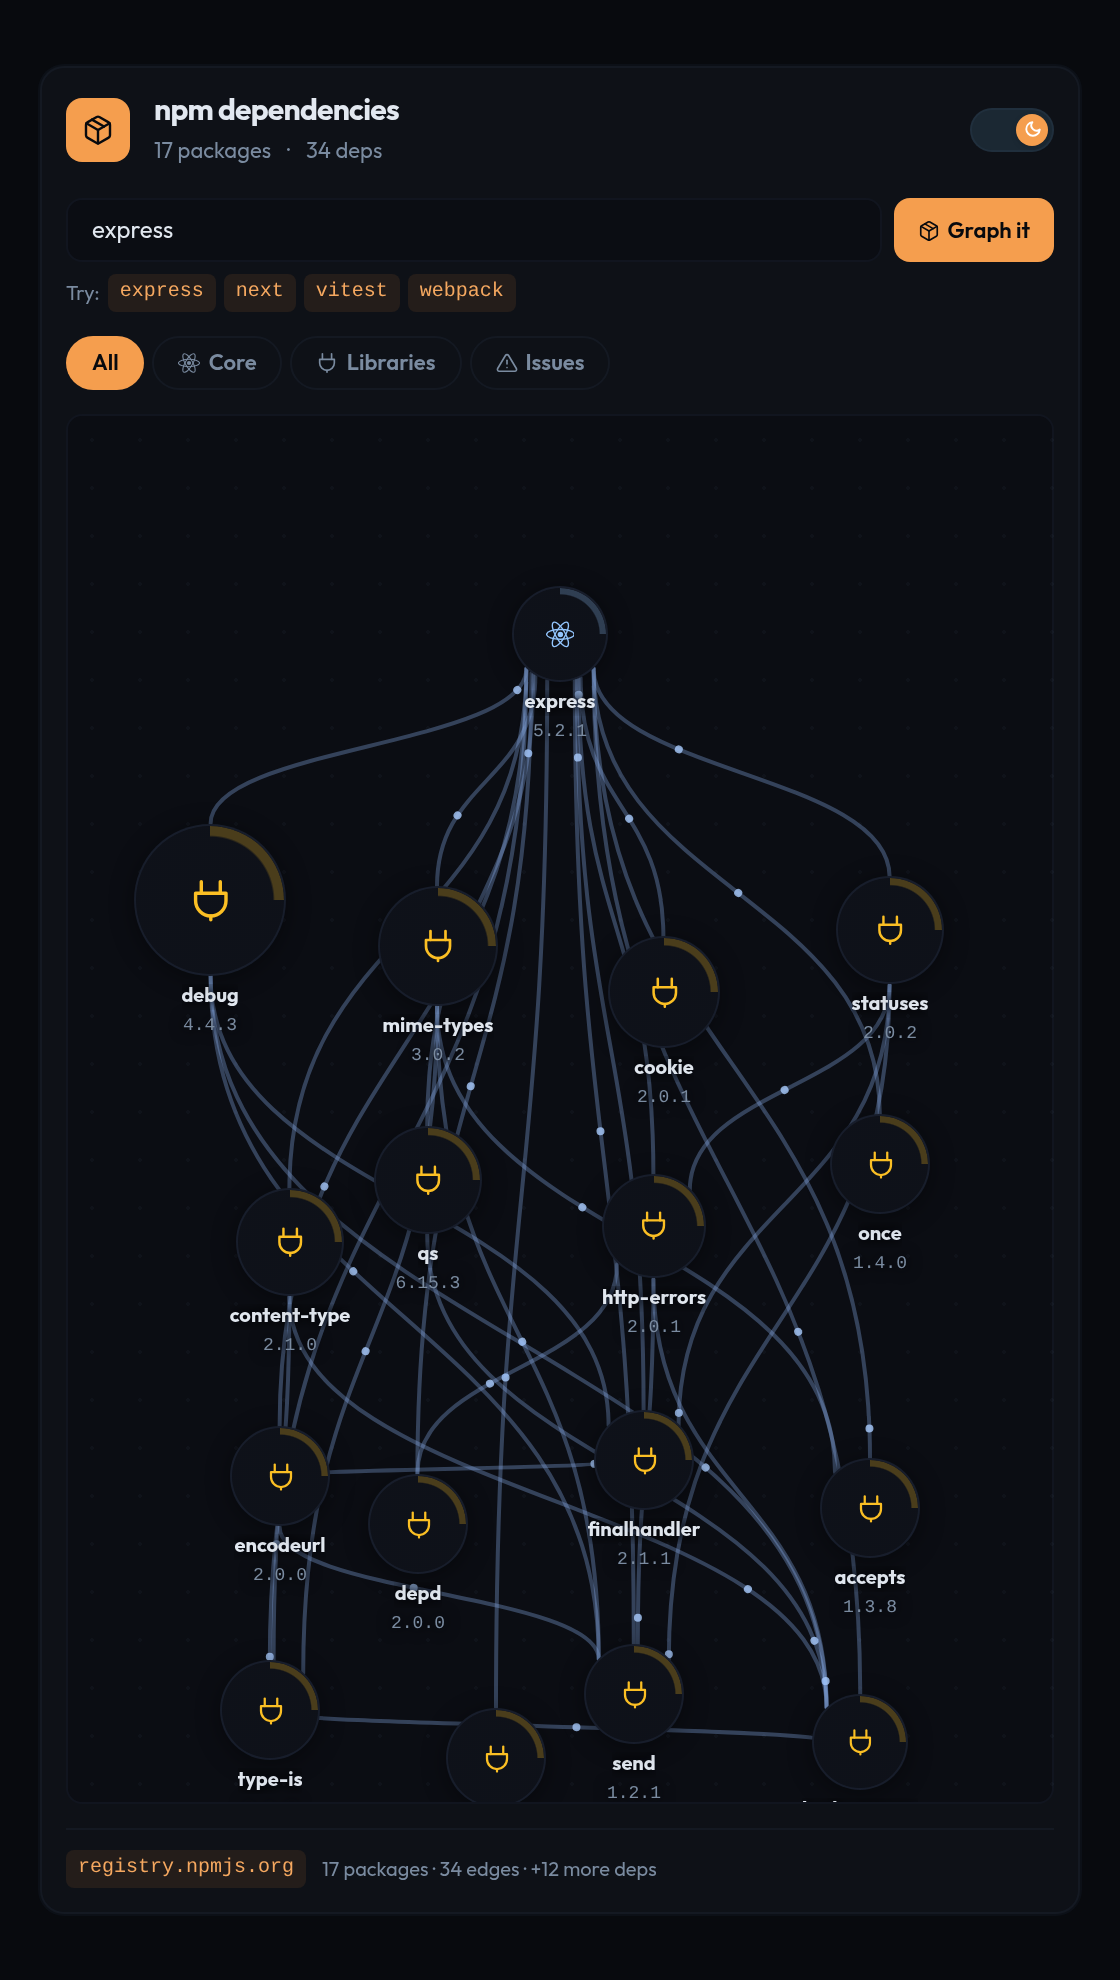
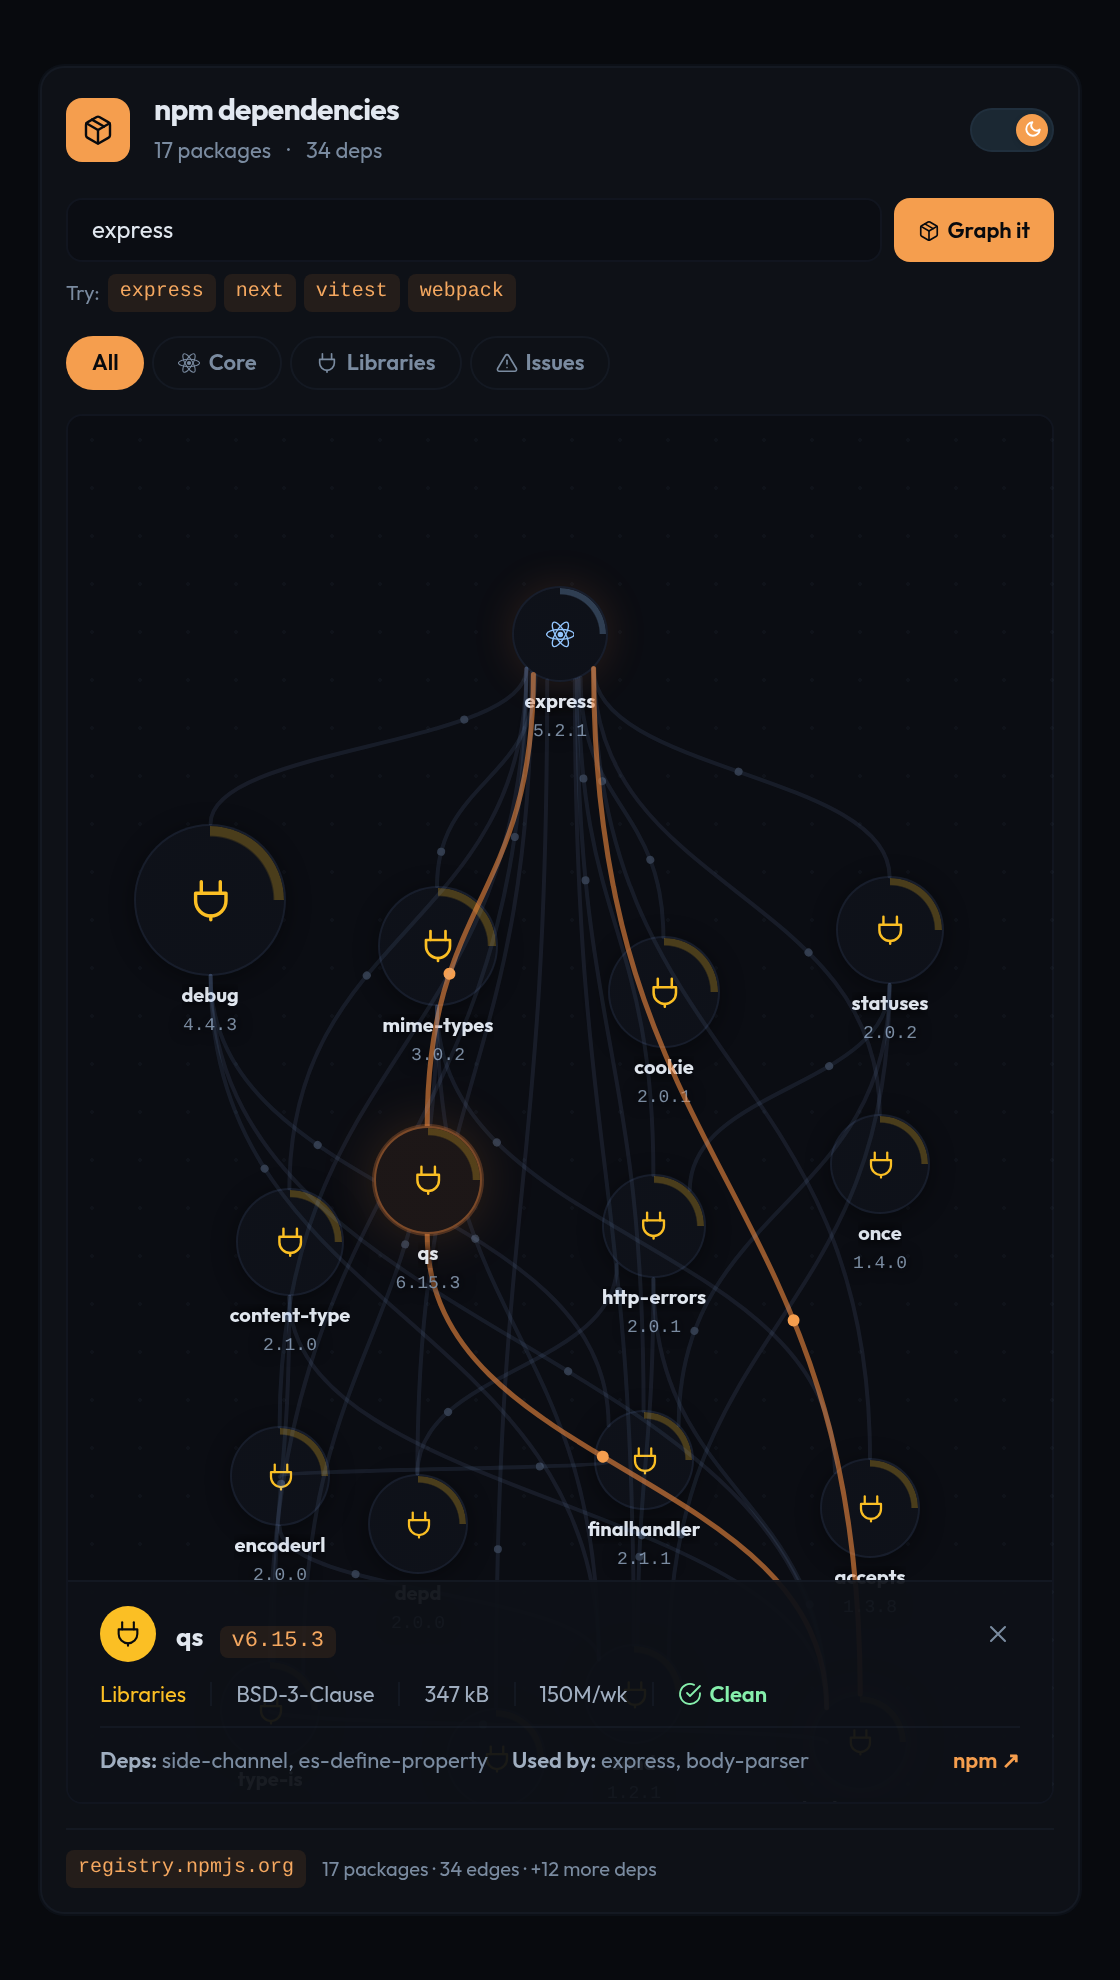
iterations

diff --git a/liquid-glass-login/src/components/Orb.tsx b/liquid-glass-login/src/components/Orb.tsx
@@ -253,7 +253,9 @@ export function Orb({
     const uBg = gl.getUniformLocation(program, 'backgroundColor');
 
     const resize = () => {
-      const dpr = window.devicePixelRatio || 1;
+      // Soft gradient blob: above 1.5x DPR the extra pixels are invisible but
+      // roughly double the fragment work of an already noise-heavy shader
+      const dpr = Math.min(window.devicePixelRatio || 1, 1.5);
       const w = container.clientWidth;
       const h = container.clientHeight;
       canvas.width = w * dpr;

diff --git a/README.md b/README.md
@@ -18,38 +18,24 @@ Live demos: **https://karelmraz.github.io/ui-components/**
       <p><code>React 19</code> <code>TanStack Query</code> <code>Vitest</code> · <a href="https://karelmraz.github.io/ui-components/dependency-graph/">demo</a></p>
     </td>
     <td width="50%" valign="top">
-      <a href="./liquid-glass-login"><img src="./docs/media/liquid-glass-login.gif" alt="Liquid glass login" width="100%" /></a>
-      <h3><a href="./liquid-glass-login">Liquid glass login</a></h3>
-      <p>Frosted glass login over a WebGL orb; the highlight follows your pointer with zero re-renders.</p>
-      <p><code>React 18</code> <code>WebGL</code> <code>framer-motion</code> · <a href="https://karelmraz.github.io/ui-components/liquid-glass-login/">demo</a></p>
-    </td>
-  </tr>
-  <tr>
-    <td width="50%" valign="top">
       <a href="./spotify-clone"><img src="./docs/media/spotify-clone.gif" alt="Spotify clone" width="100%" /></a>
       <h3><a href="./spotify-clone">Spotify clone</a></h3>
       <p>Mobile music player with a drag-able 3D album carousel and a fake playback engine — UI only, no real music plays.</p>
       <p><code>React 19</code> <code>framer-motion</code> <code>Vitest</code> · <a href="https://karelmraz.github.io/ui-components/spotify-clone/">demo</a></p>
     </td>
+  </tr>
+  <tr>
     <td width="50%" valign="top">
       <a href="./streak-visualizer"><img src="./docs/media/streak-visualizer.gif" alt="Streak visualizer" width="100%" /></a>
       <h3><a href="./streak-visualizer">Streak visualizer</a></h3>
       <p>Habit dashboard — contribution heatmap, live streak recompute, milestone celebrations.</p>
       <p><code>React 19</code> <code>framer-motion</code> <code>Vitest</code> · <a href="https://karelmraz.github.io/ui-components/streak-visualizer/">demo</a></p>
     </td>
-  </tr>
-  <tr>
     <td width="50%" valign="top">
       <a href="./interactive-globe"><img src="./docs/media/interactive-globe.gif" alt="Interactive globe" width="100%" /></a>
       <h3><a href="./interactive-globe">Interactive globe</a></h3>
       <p>Dotted 3D globe hero — drag to spin, zoom, hover hubs, fire request arcs.</p>
       <p><code>React 18</code> <code>three.js</code> · <a href="https://karelmraz.github.io/ui-components/interactive-globe/">demo</a></p>
-    </td>
-    <td width="50%" valign="top">
-      <a href="./ai-chat-orb"><img src="./docs/media/ai-chat-orb.gif" alt="AI chat orb" width="100%" /></a>
-      <h3><a href="./ai-chat-orb">AI chat orb</a></h3>
-      <p>AI chat interface around a hand-written GLSL orb that reacts to app state.</p>
-      <p><code>React 18</code> <code>WebGL / GLSL</code> · <a href="https://karelmraz.github.io/ui-components/ai-chat-orb/">demo</a></p>
     </td>
   </tr>
 </table>
